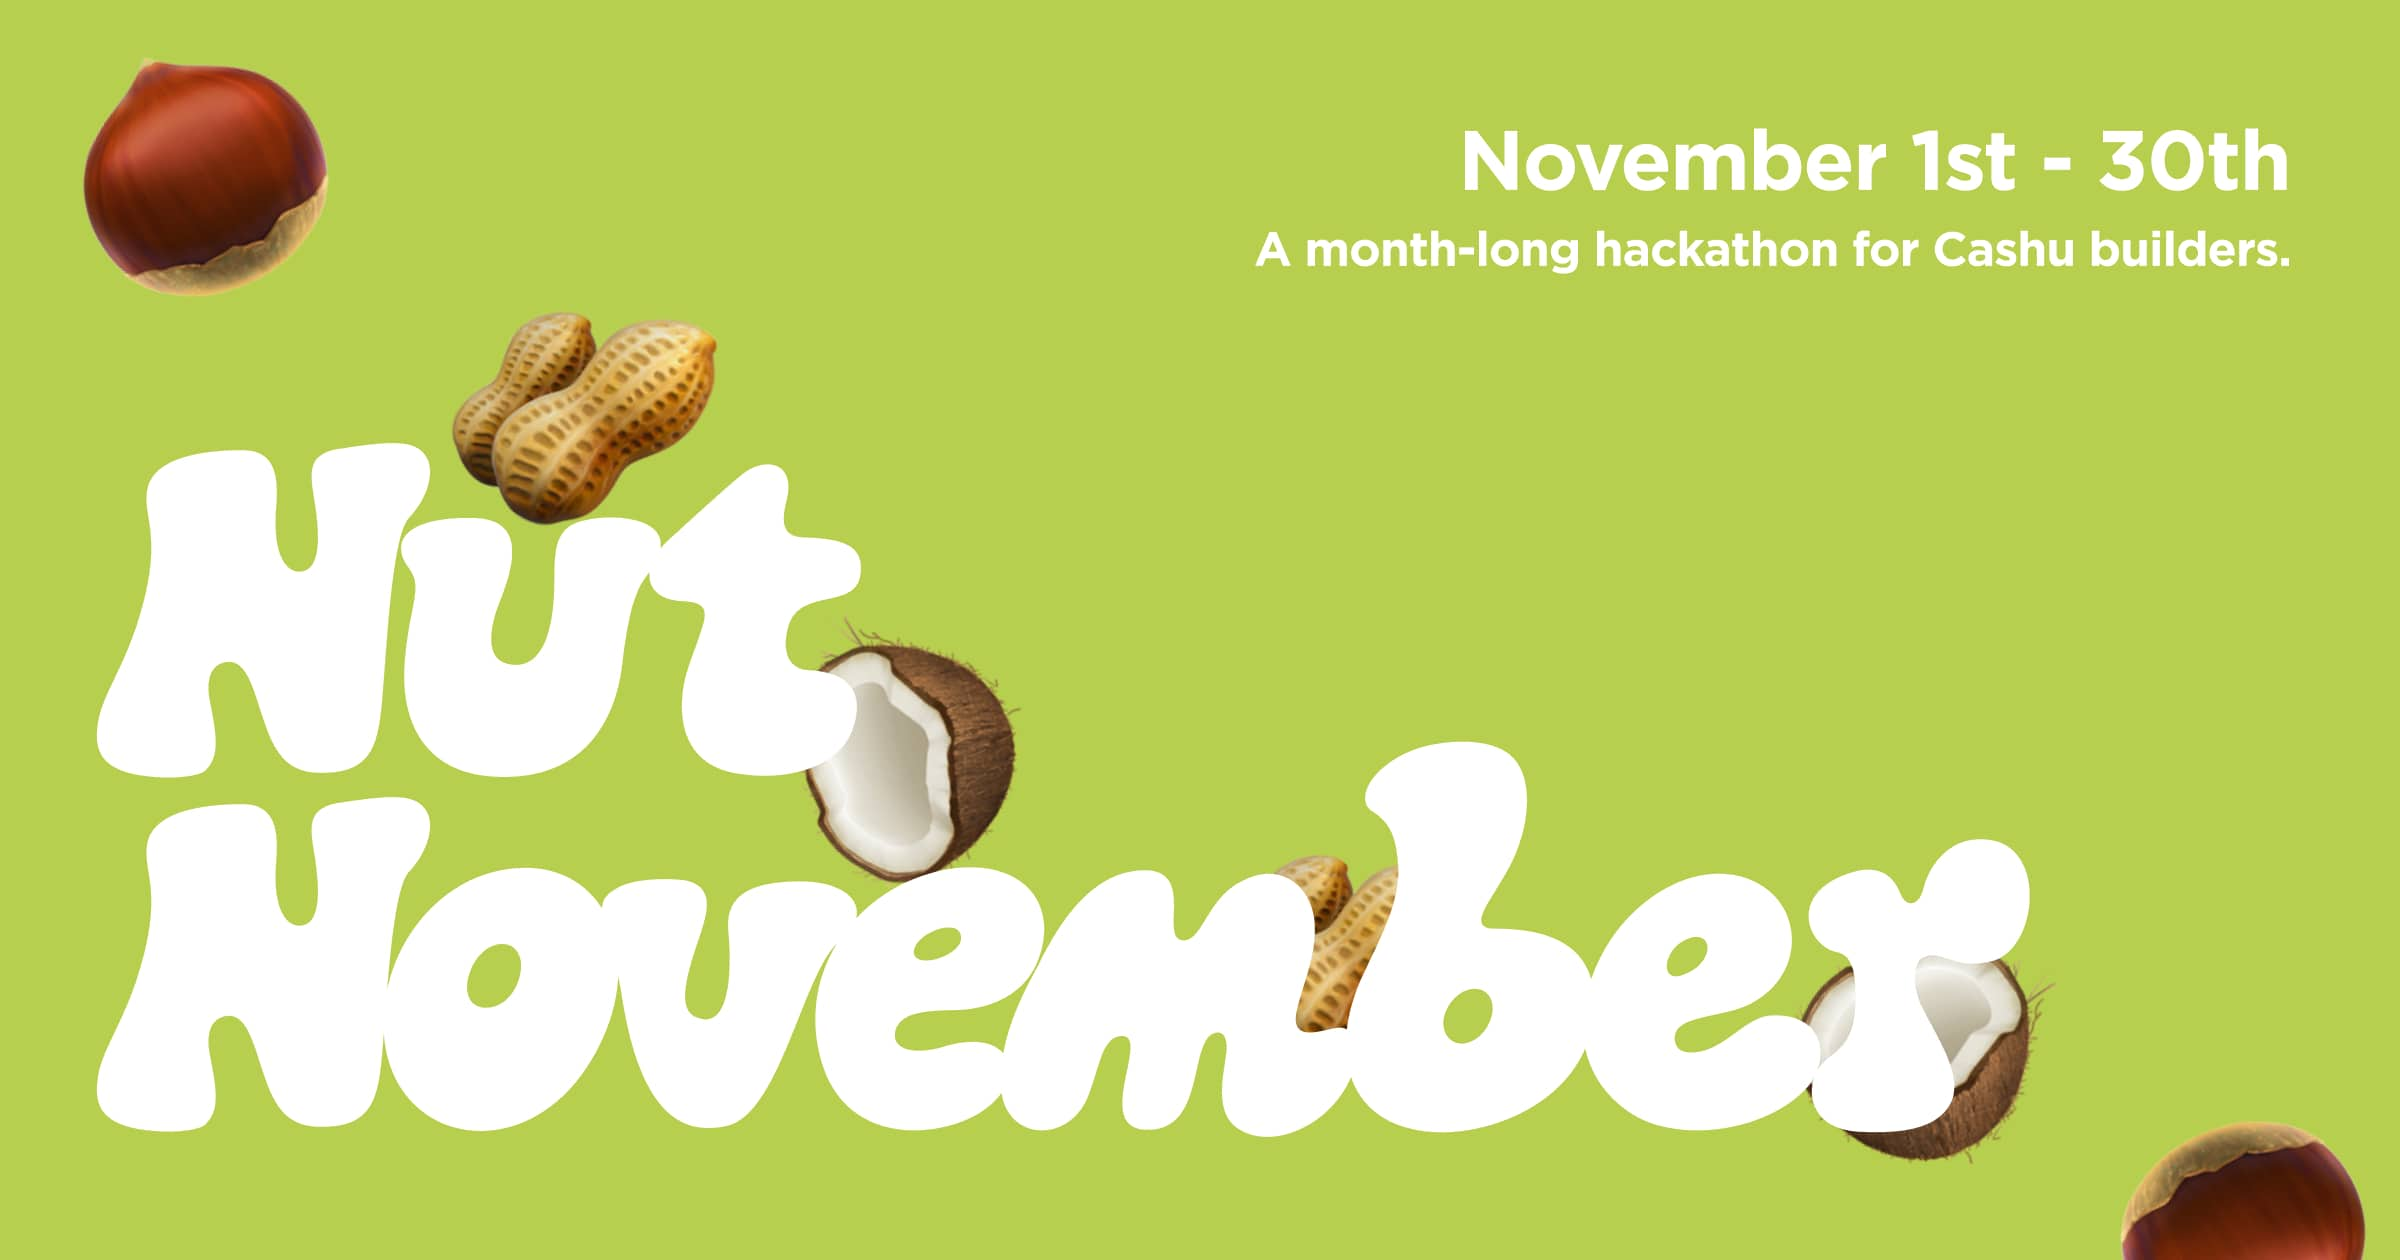
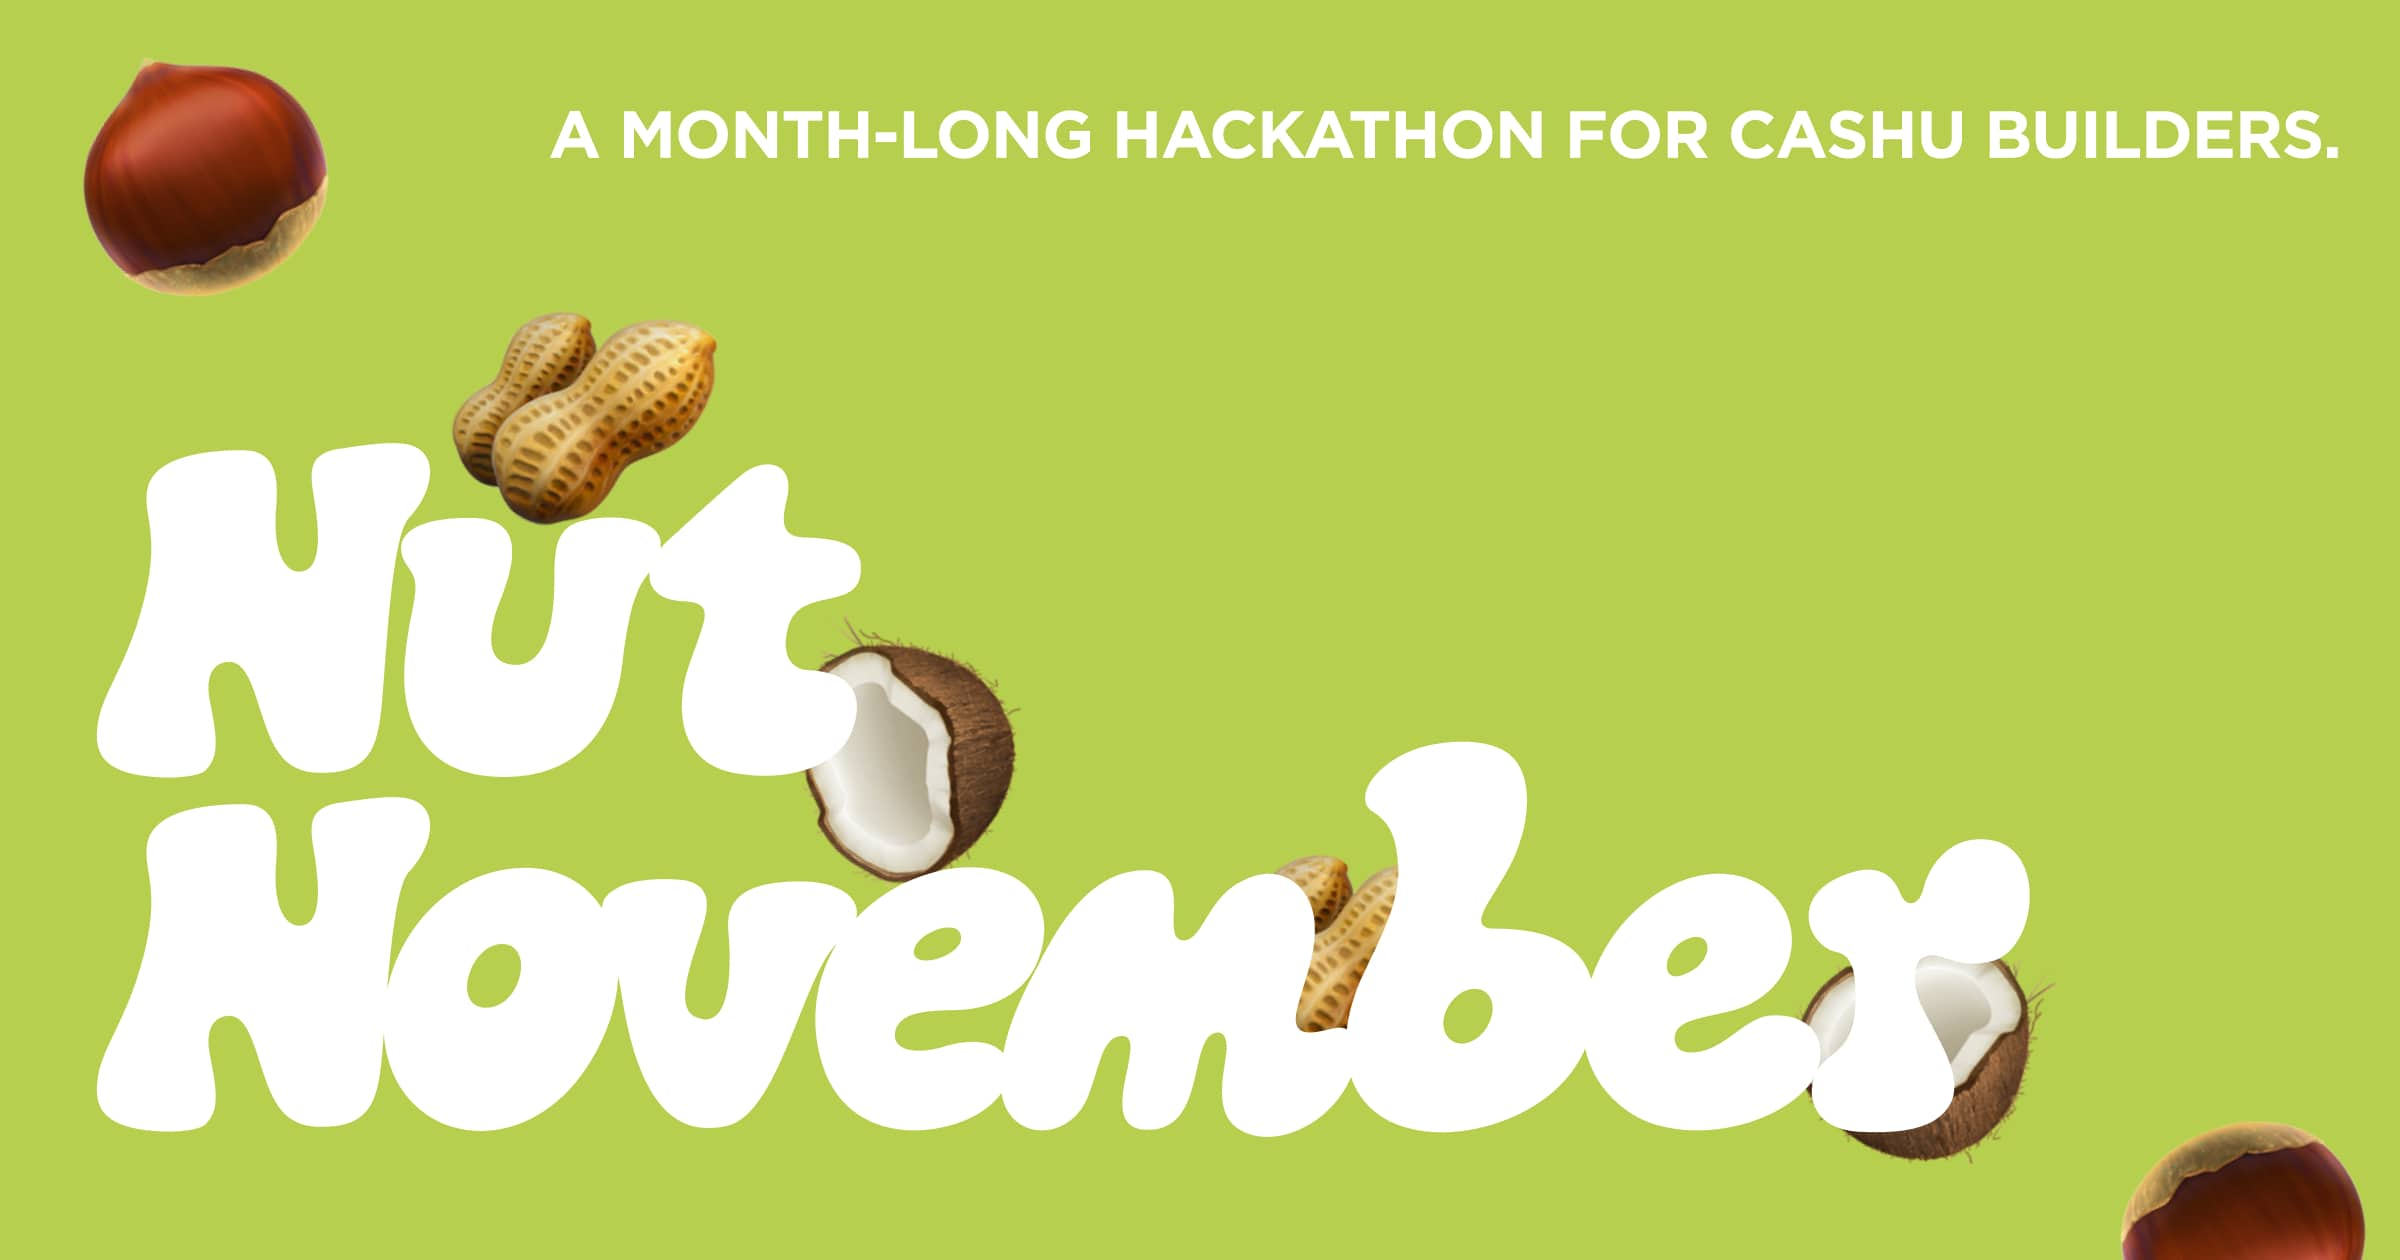
added prizes, replaced og image, added share hackathon buttons.

Changed region(s): [[0.2188, 0.0619, 0.9688, 0.1548], [0.5, 0.1857, 0.9688, 0.2167]]

diff --git a/src/app/components/Prizes.tsx b/src/app/components/Prizes.tsx
@@ -5,32 +5,38 @@ export default function Prizes() {
     {
       image: "/goldennut.jpg",
       name: "The Golden Nut",
-      description: "Best overall project. The nut that shines brightest. Grand prize for the most impressive build that pushes Cashu forward."
+      description: "Best overall project. The nut that shines brightest. Grand prize for the most impressive build that pushes Cashu forward.",
+      amount: "75 000"
     },
     {
       image: "/hardestnut.jpg",
       name: "Hardest Nut to Crack",
-      description: "Toughest technical breakthrough. For the ones who refuse to give up. Rewards the most challenging technical innovation or bug fix."
+      description: "Toughest technical breakthrough. For the ones who refuse to give up. Rewards the most challenging technical innovation or bug fix.",
+      amount: "40 000"
     },
     {
       image: "/nuttiestidea.jpg",
       name: "The Nuttiest Idea",
-      description: "Wildest experimental concept. Unhinged. Unhinged. Actually brilliant. Celebrates the most creative, out-of-the-box thinking."
+      description: "Wildest experimental concept. Unhinged. Unhinged. Actually brilliant. Celebrates the most creative, out-of-the-box thinking.",
+      amount: "30 000"
     },
     {
       image: "/uxnut.jpg",
       name: "Best Design Nut",
-      description: "Design-focused improvement. Making ecash actually usable. For projects that make Cashu more accessible and delightful."
+      description: "Design-focused improvement. Making ecash actually usable. For projects that make Cashu more accessible and delightful.",
+      amount: "25 000"
     },
     {
       image: "/freshnut.jpg",
       name: "Freshly Minted Nut",
-      description: "Best first-time contributor. Welcome to the shell game. Recognizes newcomers who made their first meaningful contribution."
+      description: "Best first-time contributor. Welcome to the shell game. Recognizes newcomers who made their first meaningful contribution.",
+      amount: "20 000"
     },
     {
       image: "/crowdfavorite.jpg",
       name: "Crowd Favorite",
-      description: "This is the prize for the entry that receives the most votes from the Cashu community."
+      description: "This is the prize for the entry that receives the most votes from the Cashu community.",
+      amount: "10 000"
     }
   ];
 
@@ -68,9 +74,14 @@ export default function Prizes() {
                   <h3 className="text-3xl sm:text-4xl font-bold text-[#B7CF4F] mb-6 text-center font-mono">
                     {prize.name}
                   </h3>
-                  <p className="text-lg text-gray-700 leading-relaxed text-center flex-grow">
+                  <p className="text-lg text-gray-700 leading-relaxed text-center mb-4 flex-grow">
                     {prize.description}
                   </p>
+                  <div className="text-center mt-auto">
+                    <p className="text-2xl sm:text-3xl font-bold text-[#8B4513] font-mono" style={{ fontFamily: "var(--font-geist-mono)" }}>
+                      <span style={{ fontFamily: "var(--font-geist-mono)" }}>₿</span>{prize.amount}
+                    </p>
+                  </div>
                 </div>
               </div>
             ))}

diff --git a/src/app/components/NutworkEffect.tsx b/src/app/components/NutworkEffect.tsx
@@ -1,0 +1,40 @@
+export default function NutworkEffect() {
+  const tweetText = "Cashu builders are going nuts again this month. https://nutnovember.org/ #NutNovember";
+  const tweetUrl = `https://twitter.com/intent/tweet?text=${encodeURIComponent(tweetText)}`;
+
+  return (
+    <section id="nutwork-effect" className="py-20 px-6 bg-[#FAFAFA] border-t border-black">
+      <div className="max-w-7xl mx-auto flex flex-col md:flex-row">
+        {/* Mobile Title - shows on top for mobile only */}
+        <h2 className="text-base font-normal text-gray-500 font-mono mb-6 md:hidden">
+          THE NUTWORK EFFECT
+        </h2>
+        {/* Vertical Label - hidden on mobile, shown on desktop */}
+        <div className="hidden md:flex flex-shrink-0 w-16 sm:w-20 md:w-24 items-center justify-center">
+          <h2 className="text-sm sm:text-base md:text-lg font-normal text-gray-500 font-mono whitespace-nowrap transform -rotate-90 origin-center">
+            THE NUTWORK EFFECT
+          </h2>
+        </div>
+        {/* Main Content */}
+        <div className="flex-1 md:pl-12 lg:pl-16">
+          <div className="max-w-3xl">
+            <p className="text-xl sm:text-2xl text-gray-800 leading-relaxed mb-8">
+              Boost the hackathon. Share <a href="https://x.com/search?q=%23NutNovember&src=typed_query" target="_blank" rel="noopener noreferrer" className="text-[#B7CF4F] hover:underline font-semibold">#NutNovember</a>. The more nuts, the stronger the network.
+            </p>
+            <div className="text-left">
+              <a 
+                href={tweetUrl}
+                target="_blank"
+                rel="noopener noreferrer"
+                className="inline-block px-10 py-5 bg-white text-[#B7CF4F] font-bold border-4 border-[#B7CF4F] hover:bg-[#f5f5f5] text-lg font-mono"
+              >
+                Tweet about #NutNovember
+              </a>
+            </div>
+          </div>
+        </div>
+      </div>
+    </section>
+  );
+}
+

diff --git a/src/app/components/Hero.tsx b/src/app/components/Hero.tsx
@@ -40,6 +40,16 @@ export default function Hero() {
               View Prizes
             </a>
           </div>
+          <div className="text-center mt-6 animate-slide-up-delay" style={{ animationDelay: "0.5s" }}>
+            <a 
+              href={`https://twitter.com/intent/tweet?text=${encodeURIComponent("Cashu builders are going nuts again this month. https://nutnovember.org/ #NutNovember")}`}
+              target="_blank"
+              rel="noopener noreferrer"
+              className="inline-block px-10 py-5 bg-[#8B4513] text-white font-bold border-4 border-[#8B4513] hover:bg-[#704214] text-lg font-mono"
+            >
+              Spread the word
+            </a>
+          </div>
         </div>
         
         {/* Circular Text Animation - Top Right Edge, Overlapping */}

diff --git a/src/app/page.tsx b/src/app/page.tsx
@@ -3,6 +3,7 @@ import About from "./components/About";
 import Prizes from "./components/Prizes";
 import HowToParticipate from "./components/HowToParticipate";
 import FAQ from "./components/FAQ";
+import NutworkEffect from "./components/NutworkEffect";
 import Footer from "./components/Footer";
 
 export default function Home() {
@@ -13,6 +14,7 @@ export default function Home() {
       <Prizes />
       <HowToParticipate />
       <FAQ />
+      <NutworkEffect />
       <Footer />
     </main>
   );
